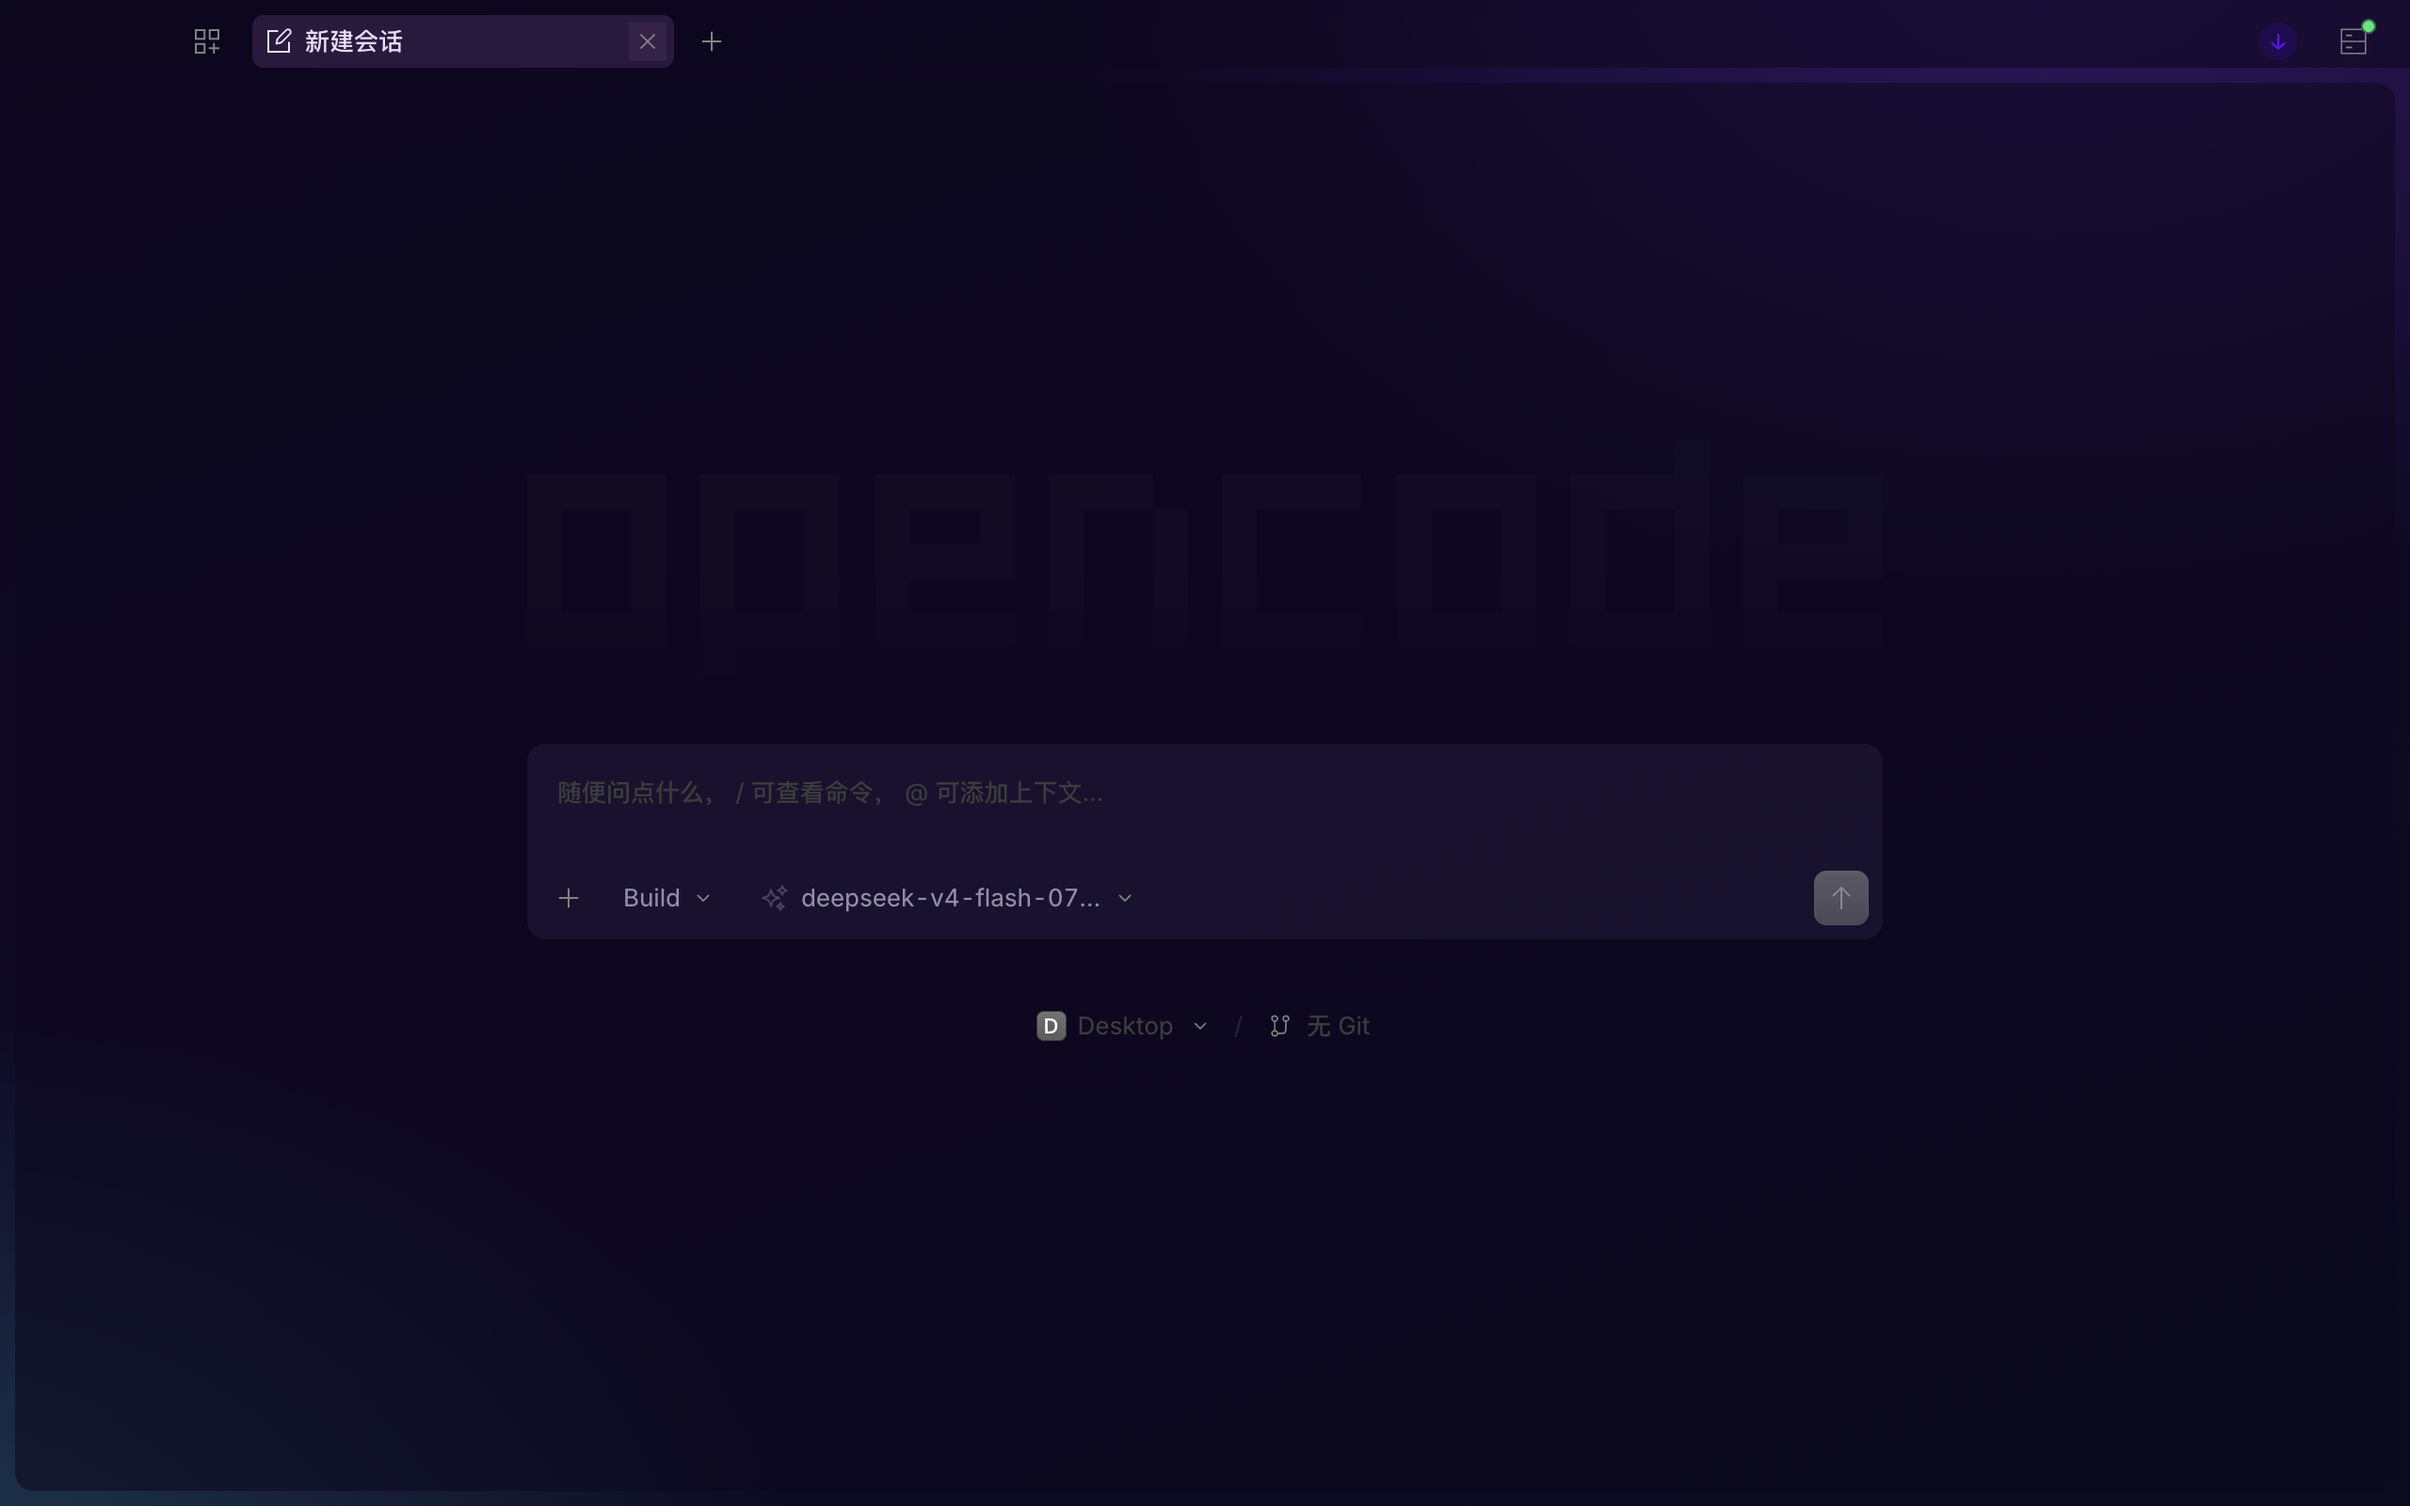
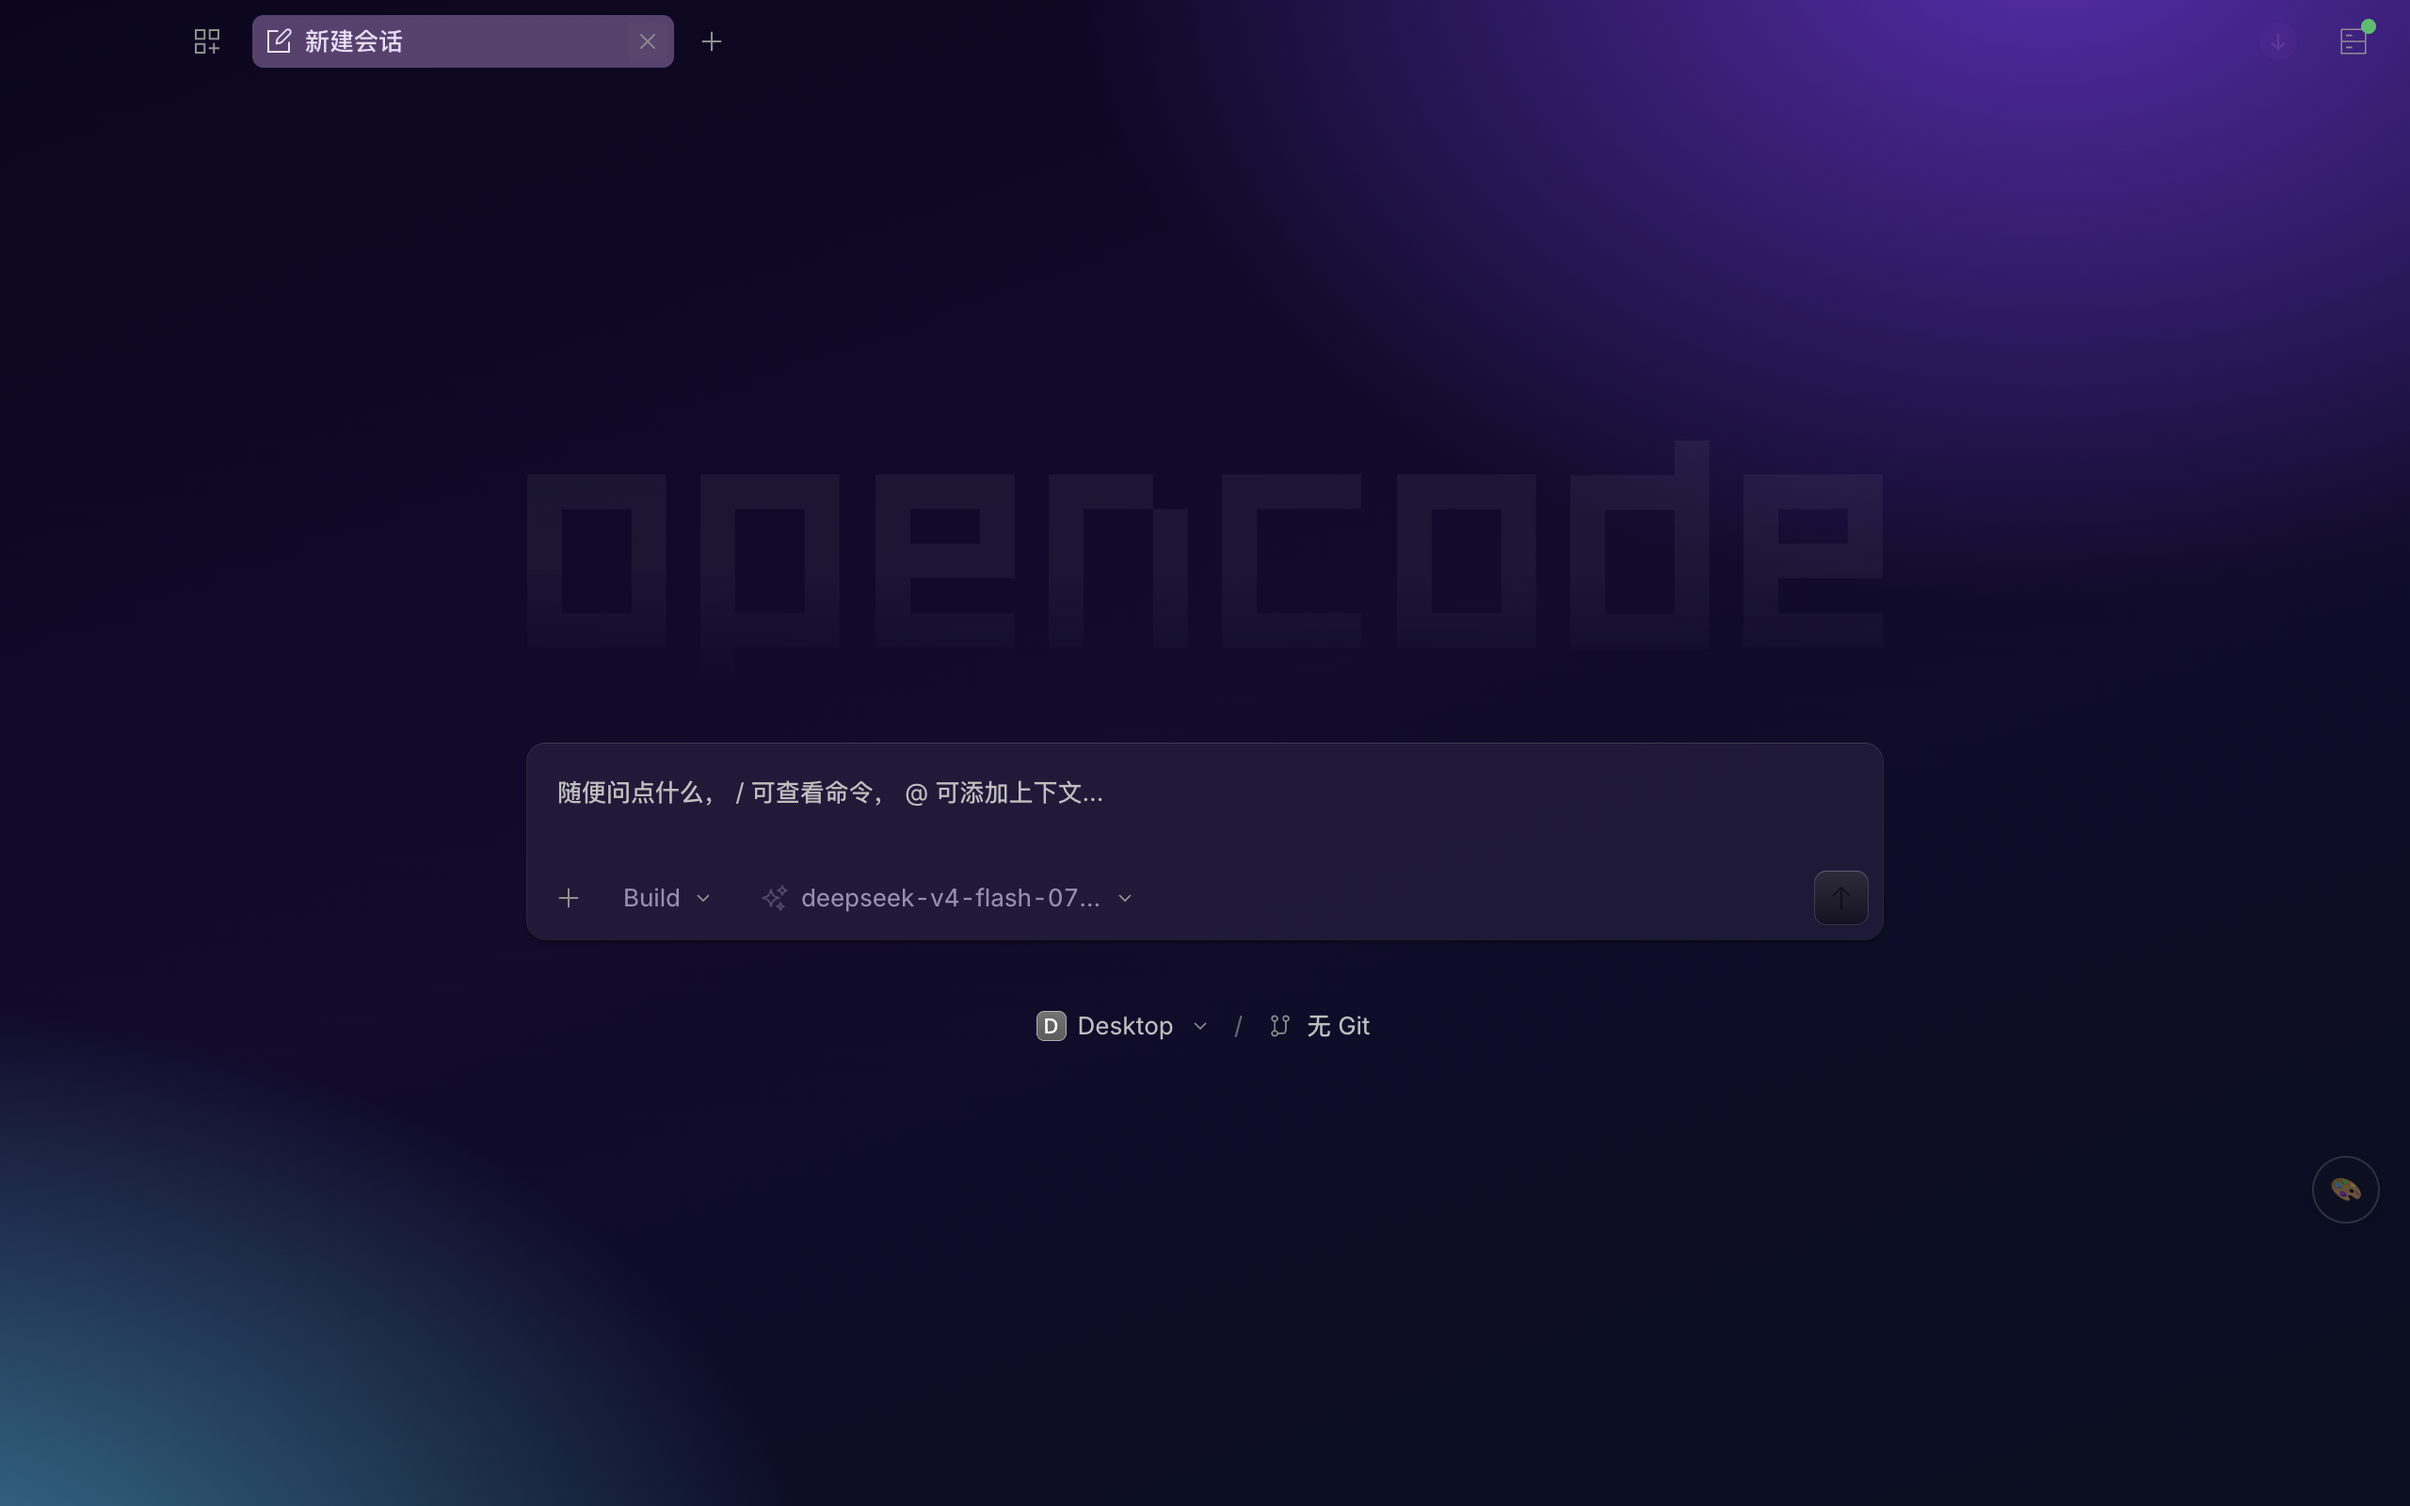
v0.2.0：界面内主题中心 + 背景图全透
- 🎨 主题中心面板（守护进程注入）：主题列表即点即换 / 上传图片生成主题 /
  随机 / 常驻开关 / 一键还原，终端与面板双向同步，刷新 5 秒自动补回
- 背景图全透：底色映射按「变量铺哪」分区对齐，大面积 100% 透图
- 修复配方主题面板不可用（空 CSS）与切换被守护进程顶掉的竞态
- README 0.2.0 头条块 + 新观感截图；33/33 测试

diff --git a/CHANGELOG.md b/CHANGELOG.md
@@ -1,5 +1,22 @@
 # 更新日志（CHANGELOG）
 
+## 0.2.0（2026-08-31）界面内主题中心 + 背景图全透
+
+- **🎨 主题中心面板**：守护进程注入的界面内面板（右下角 🎨 按钮）——主题列表
+  （色卡预览/深浅图标/当前打勾，点一下立即换肤）、上传图片当场生成主题（≤12MB，
+  与 CLI 同一套取色/深浅判定/可读性校正）、随机切换（避开当前）、常驻开关、
+  小圆点收起（Cmd+点击）、一键还原。终端与面板双向同步，刷新/重启 5 秒内自动补回
+- **背景图全透模式**：底色映射按「变量铺哪」对齐分区设计——全窗底变量 ← 主题的
+  全透明 `background` 值（侧栏/顶/底/右栏背景图 100% 直出），对话卡片 ← card 原值
+  实底。此前把 96% 实底色塞给全窗变量再调透明度，怎么调都灰蒙蒙
+- **修复配方主题在面板不可用**：`/css` 接口按模式分流，配方主题走完整收割+染色
+  （此前传空收割产出 0 变量空 CSS）
+- **修复面板切换被守护进程顶掉的竞态**：`/applied` 与 `/random` 置 8 秒 busy 窗口
+- **守护进程职责扩展**：主题中心数据服务（127.0.0.1:9346，Origin 校验跨站 403）
+  + 面板保活；EADDRINUSE 干净退出
+- 新增 `apply.mjs --panel` / `--remove-panel`；`lib/create-theme.mjs` 核心流程
+  与面板上传共用；测试 33 个用例（API 10 个）
+
 ## 0.1.0（2026-08-31）首个公开版本
 
 - **换肤引擎双模式**：

diff --git a/README.md b/README.md
@@ -17,11 +17,9 @@
 
 </div>
 
-> ## 🆕 0.1.0 首发
+> ## 🆕 0.2.0 更新：界面内主题中心 + 背景图全透
 >
-> 换肤引擎双模式：**调色板直搬**（22 套背景图/渐变主题，完整语义配色原值注入）+ **色相配方**
-> （一个 `hue` 自适应染色当前界面）。守护进程刷新/重启自动补回皮肤，`create-theme.mjs` 一张图
-> 全自动生成主题。完整变更见 [CHANGELOG.md](CHANGELOG.md)。
+> **🎨 主题中心**：OpenCode 界面右下角按钮——主题列表点一下立即换肤、上传图片当场生成主题、随机切换、常驻开关、一键还原。**背景图全透**：侧栏/对话区/右栏的背景图 100% 直出，仅输入框实底。配方主题面板可用性 + 切换竞态修复。见 [CHANGELOG.md](CHANGELOG.md)。
 
 ## 它长这样
 
@@ -31,9 +29,9 @@
 | --- | --- |
 | ![鸣潮声骸主题截图](docs/images/preview-wuthering-tide.png) | ![原神星夜主题截图](docs/images/preview-genshin-night.png) |
 
-| Miku 488137 | 赛博霓虹 |
+| 折纸 | 赛博霓虹 |
 | --- | --- |
-| ![Miku主题截图](docs/images/preview-miku-488137.png) | ![赛博霓虹主题截图](docs/images/preview-cyber-neon.png) |
+| ![折纸主题截图](docs/images/preview-origami.png) | ![赛博霓虹主题截图](docs/images/preview-cyber-neon.png) |
 
 ## 快速开始（macOS）
 
